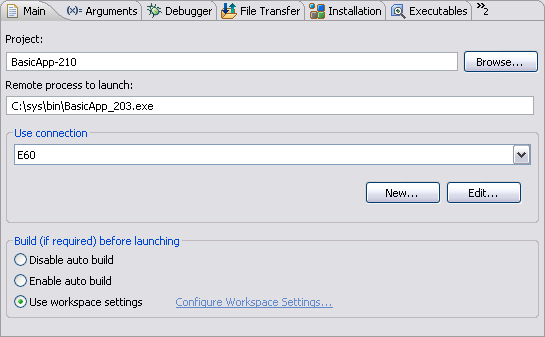
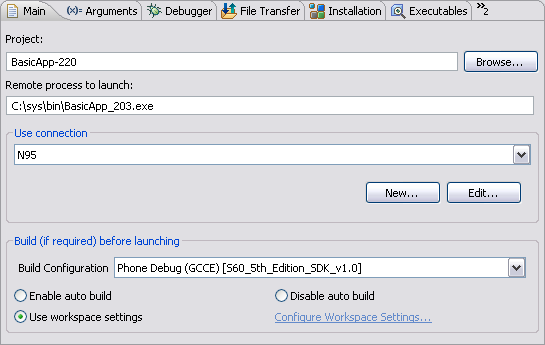
updated Main page of launch config tables and images

diff --git a/core/com.nokia.carbide.cpp.doc.user/html/projects/launch/page_main.htm b/core/com.nokia.carbide.cpp.doc.user/html/projects/launch/page_main.htm
@@ -18,7 +18,7 @@
 <h3><a name="emulator_mode" id="emulator_mode"></a>Emulation Main page </h3>
 <p>The <b>Symbian OS <a href="emulation.htm">Emulation</a></b> launch configuration uses the <b>Main</b> page to define the process to be launched by the emulator. </p>
 <p>The behavior that occurs when launching a debug session varies based upon the <a href="page_main.htm">SDK</a>. Normally, <a href="../../debugger/debug/cmds_starting.htm">starting</a> a debug session launches the emulator (<span class="code">epoc.exe</span>) and you must then navigate to your application and open it. However, starting a debug session for an .exe file will, in most cases, launch the .exe directly. This starts the emulator and then opens your application automatically. Note that some SDKs do not support this behavior. In those cases you must still open your application in the emulator manually.</p>
-<p align="center"><img src="images/page_debug_main.png" width="627" height="243"></p>
+<p align="center"><img src="images/page_debug_main.png" width="562" height="249"></p>
 <p class="figure">Figure 1. Main page (Emulation shown) </p>
 <h5>Table 1. Emulator Main page &mdash;items </h5>
 <table width="94%"  border="0" cellpadding="2" cellspacing="0">
@@ -35,6 +35,10 @@
     <td>The path to the emulator or executable to  launch. For Symbian OS 9.1 the emulator path is required. For Symbian OS 9.2 and later the path to the executable should be used.  Click <b>Browse</b> to select a different emulator. </td>
   </tr>
   <tr>
+    <td><b>Build Configuration</b></td>
+    <td>Use the <b>Build Configuration</b> drop down list to select which configuration to build before launching the resulting <b>Executable</b>. If <b>Use Active</b> is selected, then the build configuration currently active is built and launched, otherwise the chosen build configuration is always used.</td>
+  </tr>
+  <tr>
     <td><b>Build (if required) before launching</b></td>
     <td><p>Controls how auto build is configured for the launch configuration. Changing this setting overrides the global workspace setting and can provide some speed improvements. The options include:</p>
       <ul>
@@ -48,7 +52,7 @@
 
 <h3><a name="run_mode" id="run_mode"></a>Run-mode Main page </h3>
 <p>The <b>Symbian OS <a href="run_mode.htm">Application TRK </a></b> launch configuration uses the <b>Main</b> page to defines the project and the process to launch on the target device. </p>
-<p align="center"><img src="images/page_main_run_mode.png" width="545" height="337"></p>
+<p align="center"><img src="images/page_main_run_mode.png" width="545" height="345"></p>
 <p class="figure">Figure 2 - Main page (Application TRK shown) </p>
 <h5>Table 2.  Run-mode Main page &mdash;items </h5>
 <table width="94%"  border="0" cellpadding="2" cellspacing="0">
@@ -75,14 +79,18 @@
     <td>Choose the remote connection type to associate with this launch configuration. Click <a href="../../reference/trk/wnd_new_conn_wiz_add.htm">New</a> to add a new connection, or <a href="../../reference/trk/wnd_new_conn_wiz_edit.htm">Edit</a> to modify the current one.</td>
   </tr>
   <tr>
+    <td><b>Build Configuration</b></td>
+    <td>See <a href="#emulator_mode">Emulation Main page</a> above.</td>
+  </tr>
+  <tr>
     <td><b>Build (if required) before launching</b></td>
     <td>See <a href="#emulator_mode">Emulation Main page</a> above.</td>
   </tr>
 </table>
 <h3><a name="stop_mode" id="stop_mode"></a>Stop-mode Main page </h3>
 <p>The <b>Symbian OS <a href="stop_mode.htm">System TRK</a>, <a href="sophia.htm">Sophia</a></b>, and <b><a href="trace32.htm">Trace32</a> </b> launch configurations uses the <b>Main</b> page to defines the project and the executable to launch on the target device. </p>
-<p align="center"><img src="images/page_main_stop_mode.png" width="603" height="337"></p>
-<p class="figure">Figure 3. Main page </p>
+<p align="center"><img src="images/page_main_stop_mode.png" width="556" height="301"></p>
+<p class="figure">Figure 3. Main page (TRACE32 shown)</p>
 <h5>Table 3. Stop-mode Main page &mdash; items</h5>
 <table width="94%"  border="0" cellpadding="2" cellspacing="0">
   <tr>
@@ -101,6 +109,10 @@
   <tr>
     <td><b>Use connection</b></td>
     <td>See <a href="#run_mode">Run-mode Main page</a> above.</td>
+  </tr>
+  <tr>
+    <td><b>Build Configuration</b></td>
+    <td>See <a href="#emulator_mode">Emulation Main page</a> above.</td>
   </tr>
   <tr>
     <td><b>Build (if required) before launching</b></td>
